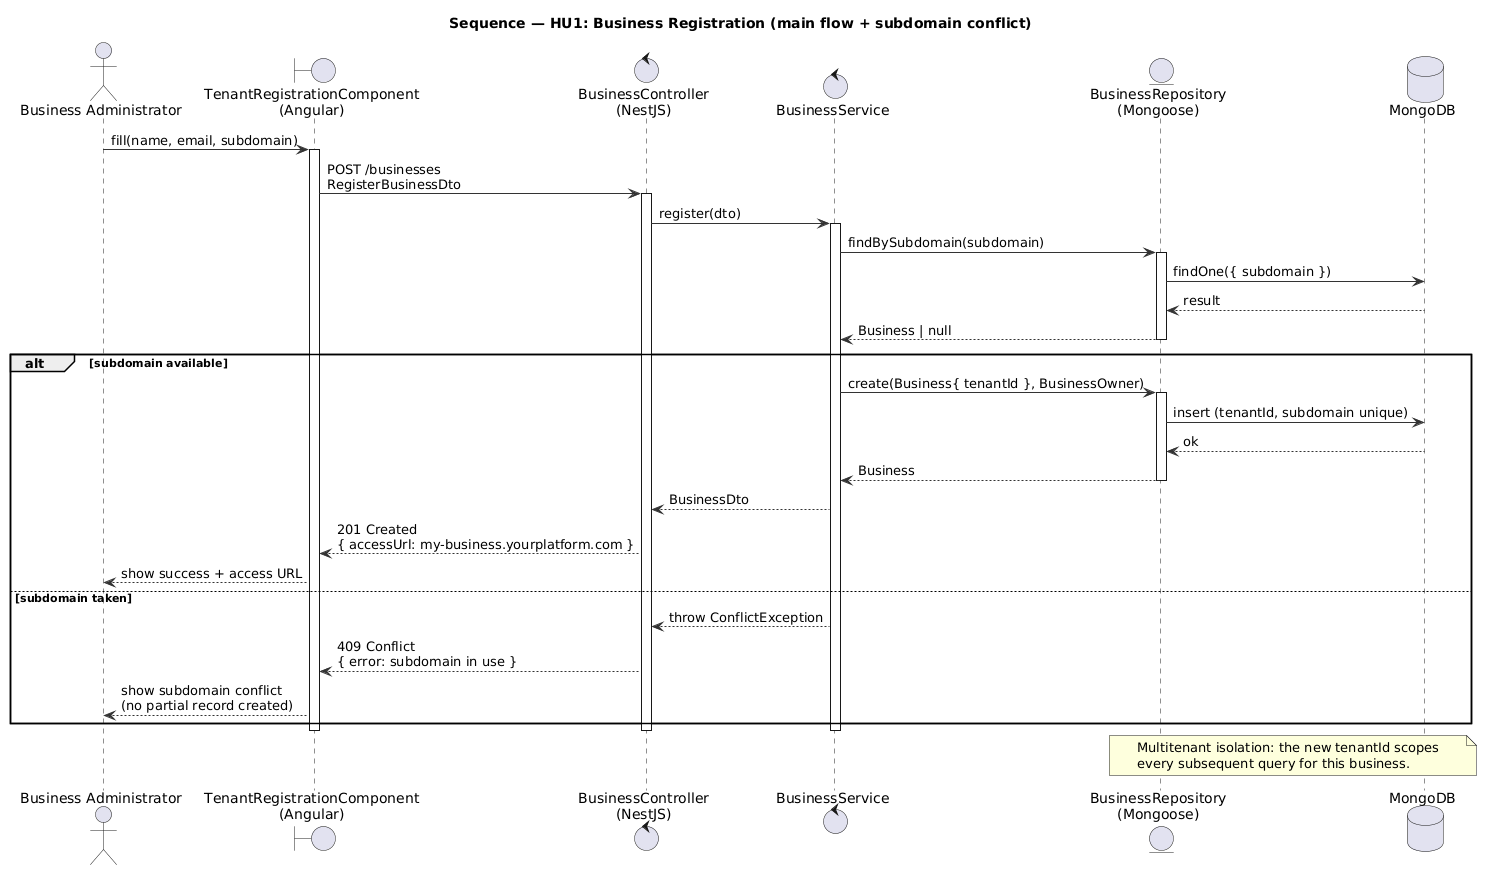
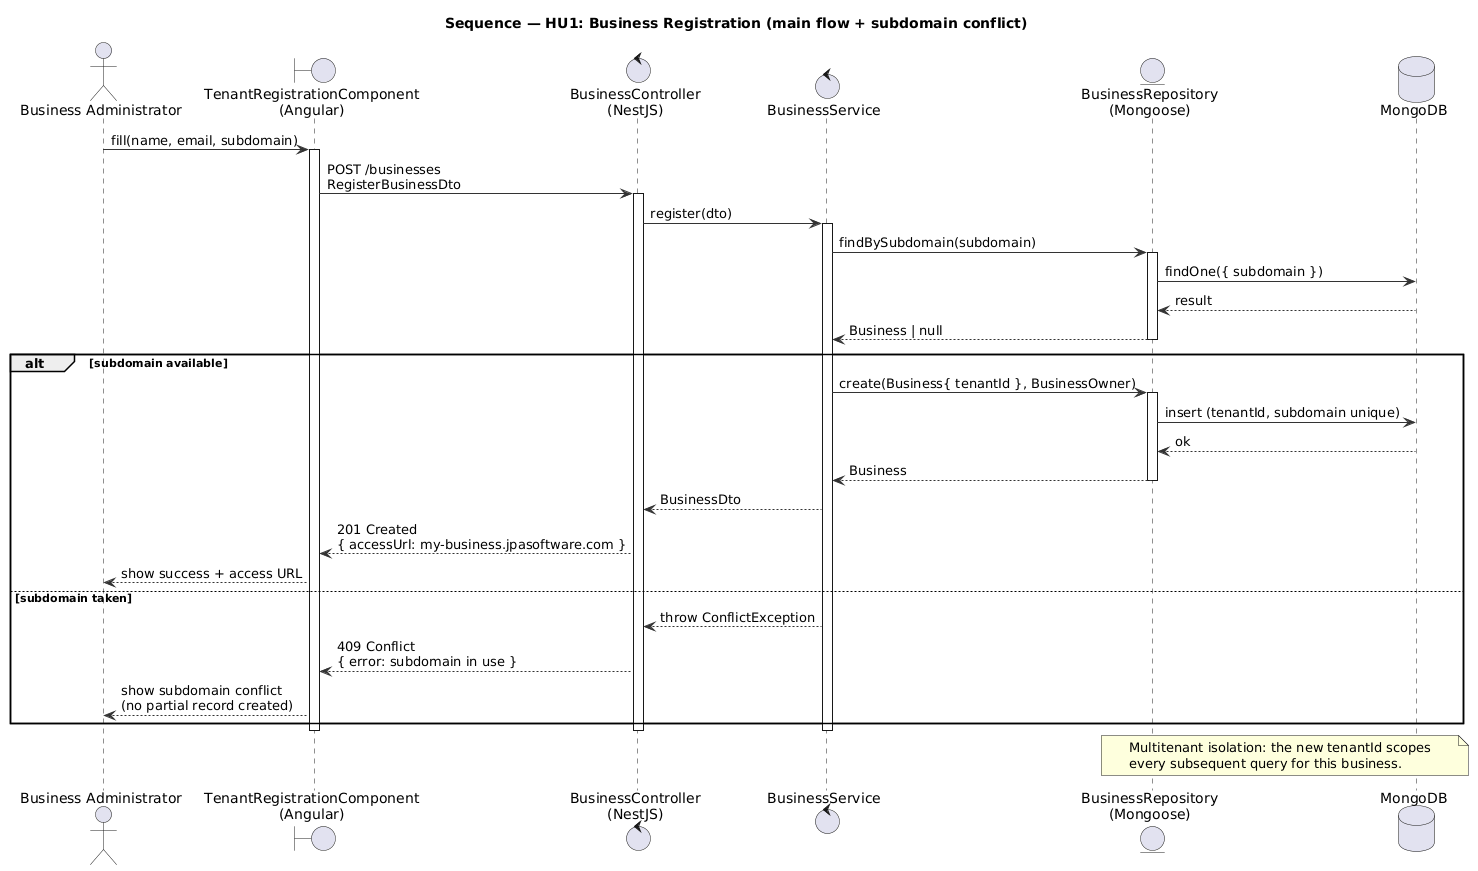
Change deployment and add new envs

diff --git a/code/backend/src/tenants/tenants.service.spec.ts b/code/backend/src/tenants/tenants.service.spec.ts
@@ -1,4 +1,5 @@
 import { ConflictException } from '@nestjs/common';
+import { ConfigService } from '@nestjs/config';
 import { getModelToken } from '@nestjs/mongoose';
 import { Test, TestingModule } from '@nestjs/testing';
 import { CreateTenantDto } from './dto/create-tenant.dto';
@@ -21,21 +22,28 @@ const createTenant = (
 ): Promise<TenantResponseDto> =>
   (service as CreatableTenantsService).create(dto);
 
+const buildService = async (
+  baseDomain: string,
+  modelMock: BusinessModelMock,
+): Promise<TenantsService> => {
+  const moduleRef: TestingModule = await Test.createTestingModule({
+    providers: [
+      TenantsService,
+      { provide: getModelToken(Business.name), useValue: modelMock },
+      { provide: ConfigService, useValue: { getOrThrow: () => baseDomain } },
+    ],
+  }).compile();
+
+  return moduleRef.get(TenantsService);
+};
+
 describe('TenantsService', () => {
   let service: TenantsService;
   let modelMock: BusinessModelMock;
 
   beforeEach(async () => {
     modelMock = { exists: jest.fn(), create: jest.fn() };
-
-    const moduleRef: TestingModule = await Test.createTestingModule({
-      providers: [
-        TenantsService,
-        { provide: getModelToken(Business.name), useValue: modelMock },
-      ],
-    }).compile();
-
-    service = moduleRef.get(TenantsService);
+    service = await buildService('jpasoftware.com', modelMock);
   });
 
   describe('isSubdomainAvailable', () => {
@@ -92,7 +100,16 @@ describe('TenantsService', () => {
       expect(result.name).toBe('Barberia Paco');
       expect(result.subdomain).toBe('barberia-paco');
       expect(result.status).toBe('active');
-      expect(result.portalUrl).toBe('https://barberia-paco.yourplatform.com');
+      expect(result.portalUrl).toBe('https://barberia-paco.jpasoftware.com');
+    });
+
+    it('derives the portal url from the configured base domain', async () => {
+      const stagingService = await buildService('staging.example', modelMock);
+      modelMock.create.mockResolvedValue(persistedDoc);
+
+      const result = await createTenant(stagingService, dto);
+
+      expect(result.portalUrl).toBe('https://barberia-paco.staging.example');
     });
 
     it('does not expose internal or owner fields in the returned dto', async () => {

diff --git a/code/backend/src/config/env.validation.spec.ts b/code/backend/src/config/env.validation.spec.ts
@@ -1,0 +1,40 @@
+import { validateEnv } from './env.validation';
+
+const validEnv = {
+  MONGODB_URI: 'mongodb://localhost:27017/bookings',
+  TENANT_BASE_DOMAIN: 'jpasoftware.com',
+};
+
+describe('validateEnv', () => {
+  it('returns the environment when every required variable is present', () => {
+    expect(validateEnv(validEnv)).toEqual(validEnv);
+  });
+
+  it('keeps optional variables untouched', () => {
+    const env = { ...validEnv, MONGODB_DB: 'bookings', PORT: '3000' };
+
+    expect(validateEnv(env)).toEqual(env);
+  });
+
+  it('rejects a missing TENANT_BASE_DOMAIN', () => {
+    expect(() => validateEnv({ MONGODB_URI: validEnv.MONGODB_URI })).toThrow(
+      'TENANT_BASE_DOMAIN',
+    );
+  });
+
+  it('rejects a blank TENANT_BASE_DOMAIN', () => {
+    expect(() =>
+      validateEnv({ ...validEnv, TENANT_BASE_DOMAIN: '   ' }),
+    ).toThrow('TENANT_BASE_DOMAIN');
+  });
+
+  it('rejects a missing MONGODB_URI', () => {
+    expect(() =>
+      validateEnv({ TENANT_BASE_DOMAIN: validEnv.TENANT_BASE_DOMAIN }),
+    ).toThrow('MONGODB_URI');
+  });
+
+  it('reports every missing variable in a single error', () => {
+    expect(() => validateEnv({})).toThrow(/MONGODB_URI.*TENANT_BASE_DOMAIN/s);
+  });
+});

diff --git a/code/backend/src/tenants/tenants.service.ts b/code/backend/src/tenants/tenants.service.ts
@@ -1,4 +1,5 @@
 import { ConflictException, Injectable } from '@nestjs/common';
+import { ConfigService } from '@nestjs/config';
 import { InjectModel } from '@nestjs/mongoose';
 import { plainToInstance } from 'class-transformer';
 import { Model } from 'mongoose';
@@ -9,13 +10,13 @@ import {
   BusinessDocument,
   TenantStatus,
 } from './schemas/business.schema';
-import { TENANT_BASE_DOMAIN } from './tenants.constants';
 
 @Injectable()
 export class TenantsService {
   constructor(
     @InjectModel(Business.name)
     private readonly businessModel: Model<BusinessDocument>,
+    private readonly config: ConfigService,
   ) {}
 
   async isSubdomainAvailable(subdomain: string): Promise<boolean> {
@@ -53,7 +54,9 @@ export class TenantsService {
         name: document.name,
         subdomain: document.subdomain,
         status: document.status,
-        portalUrl: `https://${subdomain}.${TENANT_BASE_DOMAIN}`,
+        portalUrl: `https://${subdomain}.${this.config.getOrThrow<string>(
+          'TENANT_BASE_DOMAIN',
+        )}`,
       },
       { excludeExtraneousValues: true },
     );

diff --git a/code/backend/test/tenants.e2e-spec.ts b/code/backend/test/tenants.e2e-spec.ts
@@ -4,6 +4,7 @@ import {
   ValidationPipe,
   VersioningType,
 } from '@nestjs/common';
+import { ConfigService } from '@nestjs/config';
 import { Reflector } from '@nestjs/core';
 import { getModelToken } from '@nestjs/mongoose';
 import { Test, TestingModule } from '@nestjs/testing';
@@ -32,6 +33,10 @@ describe('Tenants subdomain availability (e2e)', () => {
       providers: [
         TenantsService,
         { provide: getModelToken(Business.name), useValue: modelMock },
+        {
+          provide: ConfigService,
+          useValue: { getOrThrow: () => 'jpasoftware.com' },
+        },
       ],
     }).compile();
 
@@ -139,7 +144,7 @@ describe('Tenants subdomain availability (e2e)', () => {
         name: 'Barberia Paco',
         subdomain: 'barberia-paco',
         status: 'active',
-        portalUrl: 'https://barberia-paco.yourplatform.com',
+        portalUrl: 'https://barberia-paco.jpasoftware.com',
       });
       expect(body).not.toHaveProperty('_id');
       expect(body).not.toHaveProperty('tenantId');

diff --git a/code/frontend/src/app/features/tenant-registration/tenant-registration.outcome.spec.ts b/code/frontend/src/app/features/tenant-registration/tenant-registration.outcome.spec.ts
@@ -98,7 +98,7 @@ describe('TenantRegistration outcome', () => {
       name: 'Barberia Paco',
       subdomain: 'barberia-paco',
       status: 'active',
-      portalUrl: 'https://barberia-paco.yourplatform.com',
+      portalUrl: 'https://barberia-paco.jpasoftware.com',
     };
     const register = vi.fn<(...args: unknown[]) => Observable<TenantSummary>>(() => of(summary));
     const { fixture, component, root, apiDouble } = await setup(register);
@@ -119,9 +119,9 @@ describe('TenantRegistration outcome', () => {
       subdomain: 'barberia-paco',
     });
 
-    expect(root.textContent).toContain('https://barberia-paco.yourplatform.com');
+    expect(root.textContent).toContain('https://barberia-paco.jpasoftware.com');
     const link = Array.from(root.querySelectorAll('a')).find(
-      (anchor) => anchor.getAttribute('href') === 'https://barberia-paco.yourplatform.com',
+      (anchor) => anchor.getAttribute('href') === 'https://barberia-paco.jpasoftware.com',
     );
     expect(link).toBeTruthy();
   });

diff --git a/code/backend/src/app.module.ts b/code/backend/src/app.module.ts
@@ -5,6 +5,7 @@ import { AppController } from './app.controller';
 import { AppService } from './app.service';
 import { AvailabilityModule } from './availability/availability.module';
 import { BookingsModule } from './bookings/bookings.module';
+import { validateEnv } from './config/env.validation';
 import { EmployeesModule } from './employees/employees.module';
 import { ServicesModule } from './services/services.module';
 import { TenantContextModule } from './tenants/tenant-context.module';
@@ -13,7 +14,7 @@ import { WorkingHoursModule } from './working-hours/working-hours.module';
 
 @Module({
   imports: [
-    ConfigModule.forRoot({ isGlobal: true }),
+    ConfigModule.forRoot({ isGlobal: true, validate: validateEnv }),
     MongooseModule.forRootAsync({
       inject: [ConfigService],
       useFactory: (config: ConfigService) => ({

diff --git a/code/backend/src/config/env.validation.ts b/code/backend/src/config/env.validation.ts
@@ -1,0 +1,18 @@
+const REQUIRED_ENV_KEYS = ['MONGODB_URI', 'TENANT_BASE_DOMAIN'] as const;
+
+export function validateEnv(
+  env: Record<string, unknown>,
+): Record<string, unknown> {
+  const missing = REQUIRED_ENV_KEYS.filter((key) => {
+    const value = env[key];
+    return typeof value !== 'string' || value.trim().length === 0;
+  });
+
+  if (missing.length > 0) {
+    throw new Error(
+      `Missing or empty required environment variables: ${missing.join(', ')}`,
+    );
+  }
+
+  return env;
+}

diff --git a/code/frontend/src/app/core/tenant-context.spec.ts b/code/frontend/src/app/core/tenant-context.spec.ts
@@ -6,7 +6,7 @@ describe('resolveTenantSlug', () => {
   });
 
   it('supports hyphenated tenant slugs', () => {
-    expect(resolveTenantSlug('barberia-paco.yourplatform.com')).toBe('barberia-paco');
+    expect(resolveTenantSlug('barberia-paco.jpasoftware.com')).toBe('barberia-paco');
   });
 
   it('returns null for the www subdomain', () => {

diff --git a/code/frontend/src/app/features/tenant-registration/tenant-registration.html b/code/frontend/src/app/features/tenant-registration/tenant-registration.html
@@ -67,7 +67,7 @@
             subdomainError ? 'tenant-subdomain-error' : 'tenant-subdomain-status'
           "
         />
-        <span class="field__suffix" aria-hidden="true">.yourplatform.com</span>
+        <span class="field__suffix" aria-hidden="true">.jpasoftware.com</span>
       </div>
       @if (subdomainError) {
         <p

diff --git a/code/frontend/src/app/features/tenant-registration/tenant-registration.api.spec.ts b/code/frontend/src/app/features/tenant-registration/tenant-registration.api.spec.ts
@@ -63,7 +63,7 @@ describe('TenantRegistrationApi', () => {
       name: 'Barberia Paco',
       subdomain: 'barberia-paco',
       status: 'active',
-      portalUrl: 'https://barberia-paco.yourplatform.com',
+      portalUrl: 'https://barberia-paco.jpasoftware.com',
     };
 
     let emitted: unknown;

diff --git a/code/frontend/src/app/features/tenant-registration/tenant-registration.spec.ts b/code/frontend/src/app/features/tenant-registration/tenant-registration.spec.ts
@@ -141,6 +141,6 @@ describe('TenantRegistration', () => {
   it('shows the subdomain suffix next to the field', async () => {
     const { root } = await setup();
 
-    expect(root.textContent).toContain('.yourplatform.com');
+    expect(root.textContent).toContain('.jpasoftware.com');
   });
 });

diff --git a/code/backend/src/tenants/dto/tenant-response.dto.ts b/code/backend/src/tenants/dto/tenant-response.dto.ts
@@ -41,7 +41,7 @@ export class TenantResponseDto {
 
   @ApiProperty({
     description: 'Public portal URL of the tenant',
-    example: 'https://barberia-paco.yourplatform.com',
+    example: 'https://barberia-paco.jpasoftware.com',
   })
   @Expose()
   portalUrl: string;
